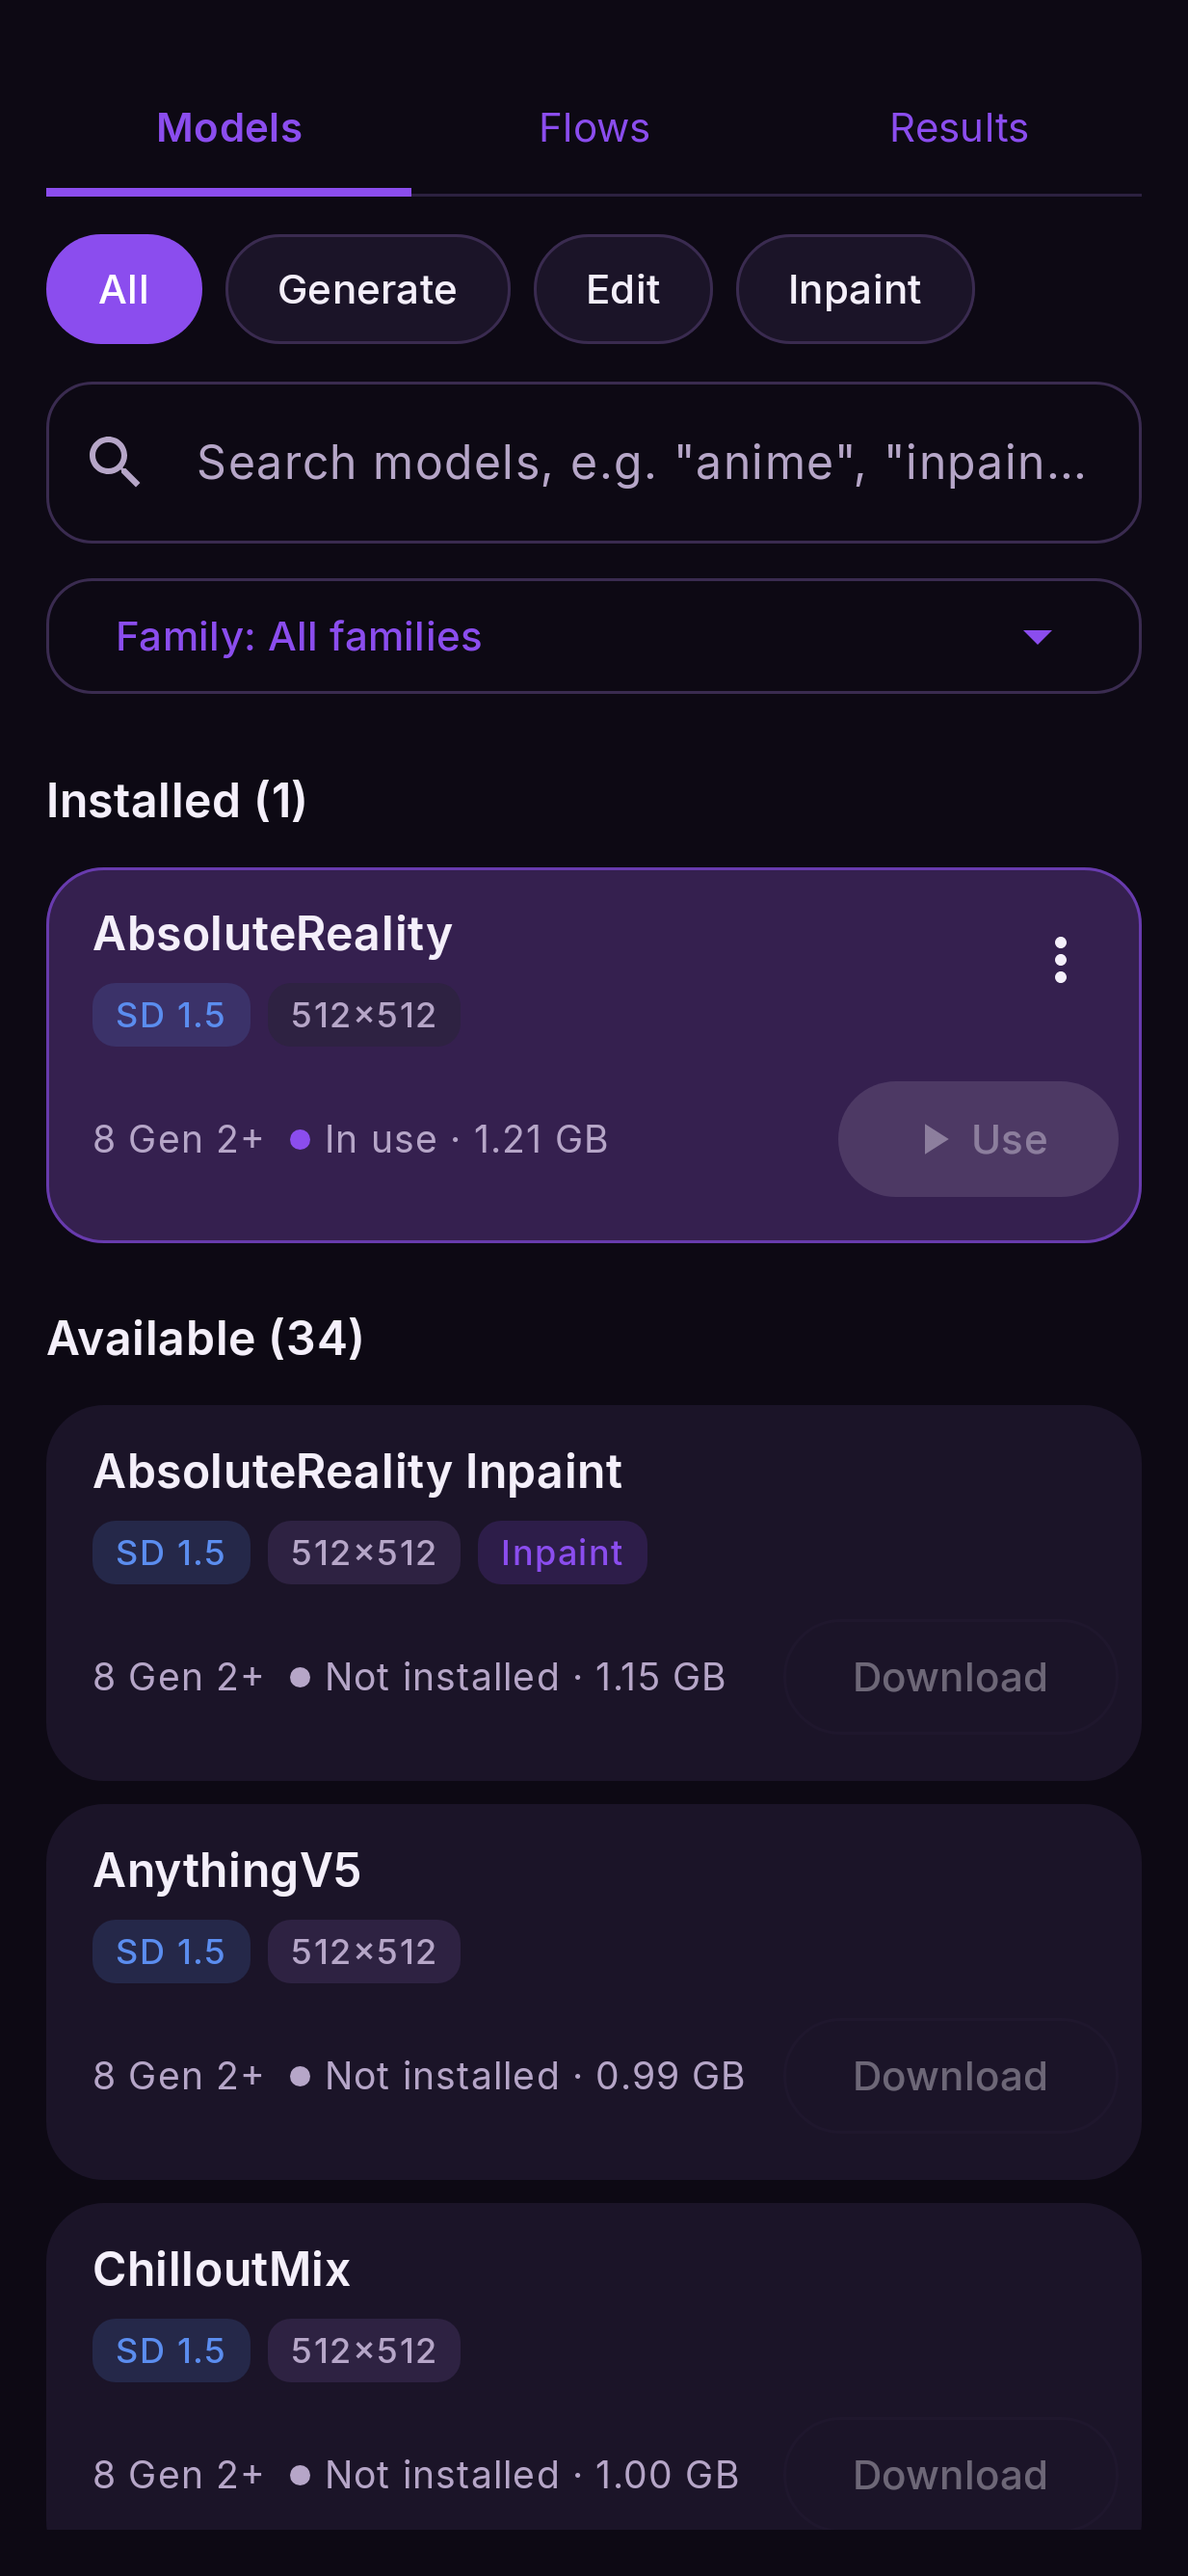
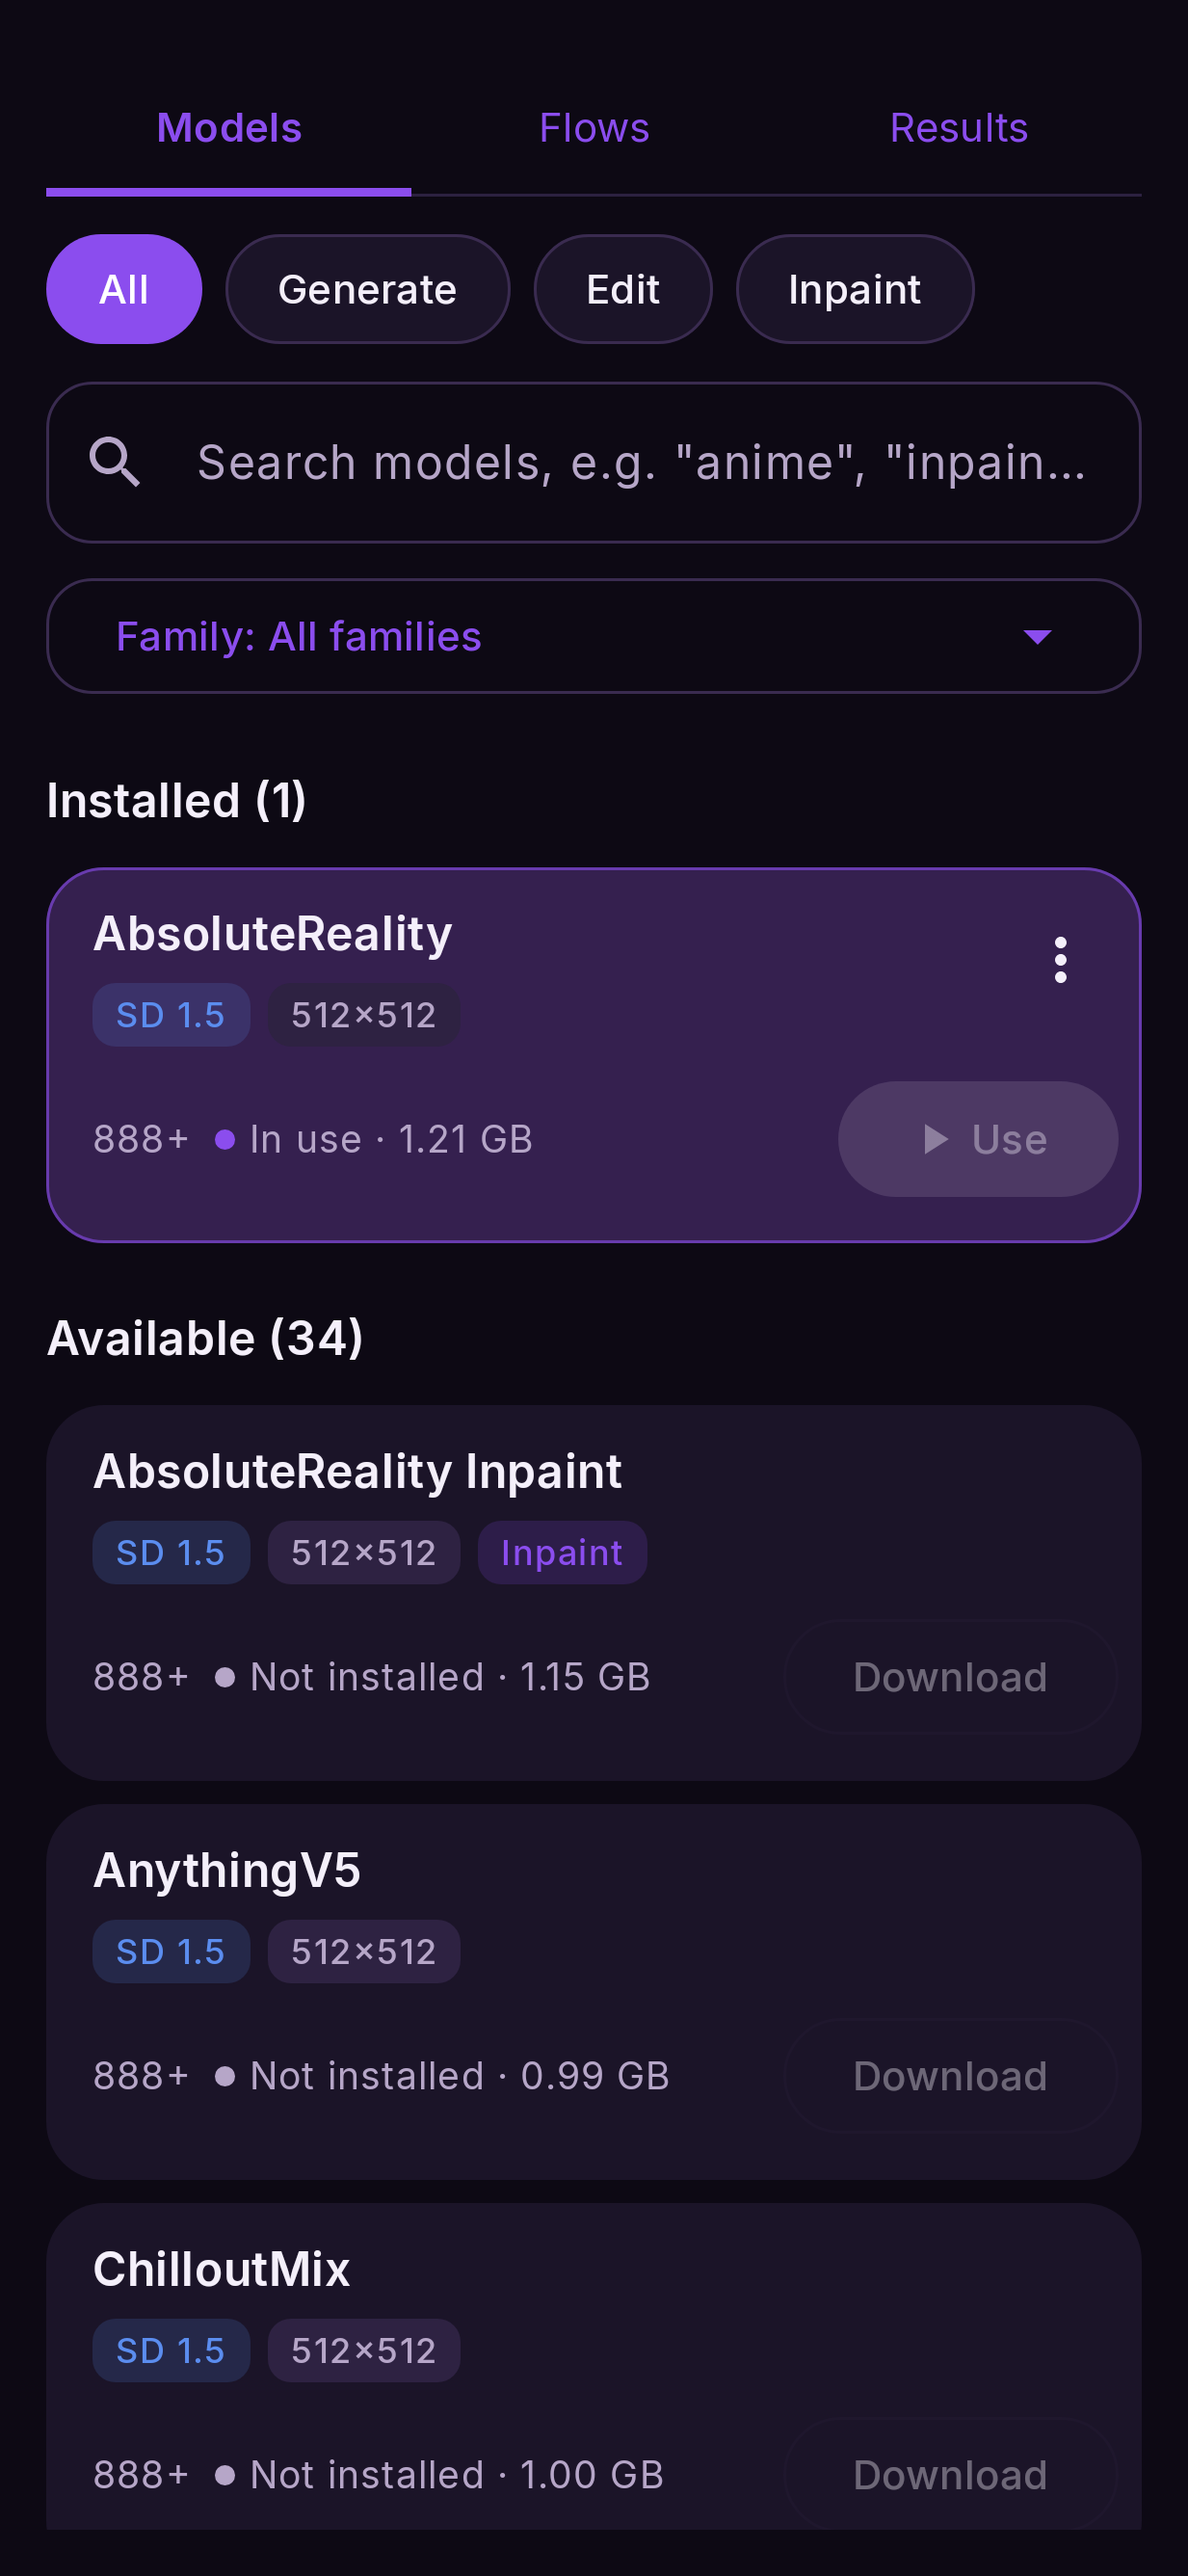
1.6.127: the Models card shows the lowest chip a model runs on
- The chip label is the lowest floor of any build, not this phone's build: Klein 4B reads 8 Gen 3+ (it read 8 Elite+ on an S25), SD 1.5 reads 888+ (it read 8 Gen 2+)
- Model-list goldens re-recorded; the guide's screenshots synced

Claude-Session: https://claude.ai/code/session_01KzMRyxWcKvt857AvnYmTiZ

diff --git a/app/src/main/java/com/abrah/nightmare/ui/ModelBrowser.kt b/app/src/main/java/com/abrah/nightmare/ui/ModelBrowser.kt
@@ -436,9 +436,10 @@ internal fun ModelCardV2(
 @Composable
 private fun StatusLine(row: ModelRow, modifier: Modifier) {
     val spec = row.spec
-    // ⚠ With no build for THIS phone (a RAM gate: Krea 2 on 12 GB) the label is the
-    // lowest arch any build needs — `minHtpArch` alone is 68 for a DiT and read "888+".
-    val arch = row.build?.minArch ?: spec.builds.minOfOrNull { it.minArch } ?: spec.minHtpArch
+    // ⭐ Which phones can run it — the LOWEST floor of any build, never this phone's build: an S25
+    // takes Klein 4B's FP8 (v79) and the card read "8 Elite+" for a model the 8 Gen 3 runs too
+    // (the user, 2026-10-10); SD 1.5 read "8 Gen 2+" for models whose `_min` build runs from the 888.
+    val arch = spec.builds.minOfOrNull { it.minArch } ?: spec.minHtpArch
     val (dot, word) = when {
         row.selected && row.installed -> MaterialTheme.colorScheme.primary to stringResource(R.string.mb_status_in_use)
         row.installed -> Color(0xFF34C38F) to stringResource(R.string.mb_status_installed)
